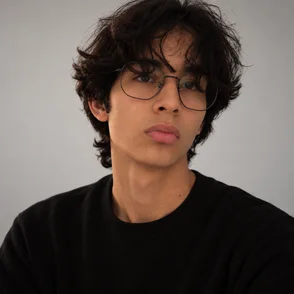
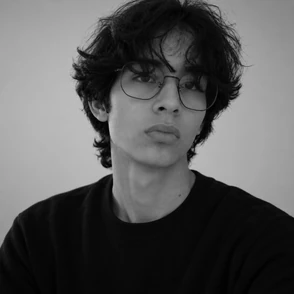
fix: re-rendered photo with filter

Changed region(s): [[0.2755, 0.0918, 0.7041, 0.7653]]

diff --git a/README.md b/README.md
@@ -8,7 +8,7 @@ Headings use the locally hosted Momo Trust Display font. Its SIL Open Font Licen
 
 ## Customize
 
-Edit [`src/config.ts`](src/config.ts) for the title, colors, animation timing, profile, featured projects, about text, contact email, and social links. The page shows About me and three projects in one screen, with X and LinkedIn links fixed at the bottom right. The Work with me text link opens an email draft, and Copy email provides a fallback in the same top-right row. Other projects are available through the GitHub link. Replace [`public/avatar.webp`](public/avatar.webp) with your own optimized image, or change `profile.image` in the config to another file in `public/`. The original profile photo is preserved at [`src/assets/avatar-source.png`](src/assets/avatar-source.png).
+Edit [`src/config.ts`](src/config.ts) for the title, colors, animation timing, profile, featured projects, about text, contact email, and social links. The page shows About me and three projects in one screen, with X and LinkedIn links fixed at the bottom right. The Work with me text link opens an email draft, and Copy email provides a fallback in the same top-right row. Other projects are available through the GitHub link. Replace [`public/avatar.webp`](public/avatar.webp) with your own optimized image, or change `profile.image` in the config to another file in `public/`. The original profile photo is preserved at [`src/assets/avatar-source.png`](src/assets/avatar-source.png), and `public/avatar.webp` is a 294×294 black-and-white render of it, so the grayscale is baked into the pixels instead of a CSS filter. To refresh it after replacing the source, re-render a square grayscale WebP with the same luma weights the browser used (`0.2126`/`0.7152`/`0.0722`), so the page looks identical.
 
 The Open Graph image at `/og-image.png` is generated during the static build from `meta.title`, `meta.description`, and the dark theme colors. Its accessible description follows the same config values.
 
